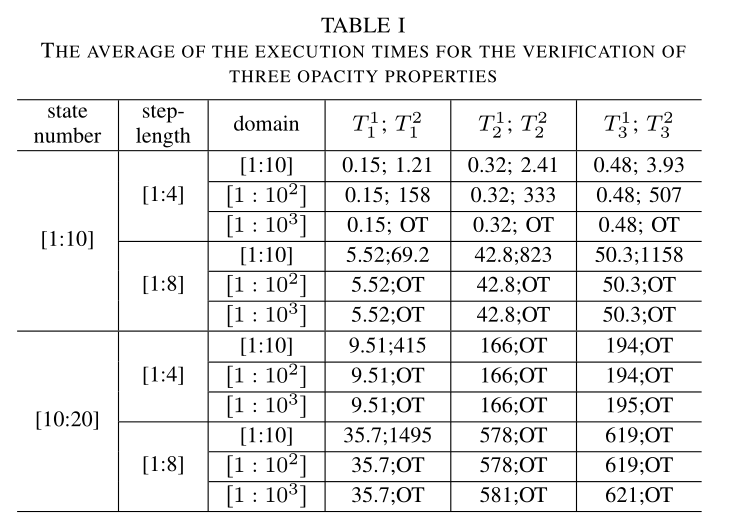
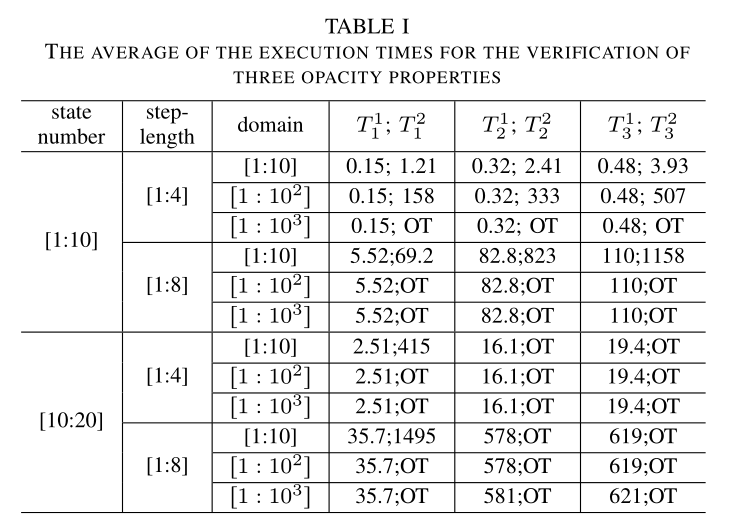
Add files via upload

Changed region(s): [[0.0301, 0.0304, 0.9644, 0.9715]]

diff --git a/EFA_Opacity.py b/EFA_Opacity.py
@@ -2,15 +2,15 @@ import time
 from itertools import chain, combinations
 from z3 import *
 
-#import EFA_model1
-#import EFA_model1_reverse
+import EFA_model1
+import EFA_model1_reverse
 
-###### test the model EFA_model1_4
-import EFA_model1_4
-import EFA_model1_4_reverse
-EFA_model1 = EFA_model1_4
-EFA_model1_reverse = EFA_model1_4_reverse
-###### test the model EFA_model1_4
+# ###### test the model EFA_model1_2
+# import EFA_model1_3
+# import EFA_model1_3_reverse
+# EFA_model1 = EFA_model1_3
+# EFA_model1_reverse = EFA_model1_3_reverse
+# ###### test the model EFA_model1_2
 
 
 start_time = time.time()

diff --git a/EFA_model1_3_reverse.py b/EFA_model1_3_reverse.py
@@ -239,7 +239,7 @@ def construct_Reverse_EFA():
     T.extend([T1, T2, T3, T4, T5, T6, T11, T21, T31, T41, T51, T61, T12, T22, T32, T42, T52, T62, T71, T72, T7])
 
 # initial state set, secret state set and non-secret state set for initial state opacity
-q_0  = set({"q0", "q1", "q2", "q3","q4", "q01", "q11", "q21", "q31","q41", "q02", "q12", "q22", "q32","q42"})
+q_0  = set({"q0", "q1", "q2", "q3","q4", "q01", "q11", "q21", "q31","q41", "q02", "q12", "q22"})
 Q_s_initial  = set({"q2"})
 Q_ns_initial = set({"q0","q1"})
 

diff --git a/EFA_model1_3.py b/EFA_model1_3.py
@@ -242,7 +242,7 @@ def construct_EFA():
 
 
 # initial state set
-q_0 = set({"q0","q01","q02"})
+q_0 = set({"q0","q01"})
 
 # secret state set and non-secret state set for current state opacity
 Q_s  = set({"q22","q41"})

diff --git a/README.md b/README.md
@@ -29,11 +29,10 @@ execution time of the program.
 By changing the "Max_Domain = 40" in the files of "FA_model1.py" and "FA_model1_reverse.py", one can set the finite
 domains of the event parameters.
 
-The average running time in my computer (Intel i7-9700 3.00GHz CPU and 24G RAM) is as follows.
+The total running time in my computer (Intel i7-9700 3.00GHz CPU and 24G RAM) is as follows.
 
-	Table 1 : THE AVERAGE OF THE EXECUTION TIMES FOR THE VERIFICATION OF THREE OPACITY PROPERTIES
-![total_time](https://github.com/user-attachments/assets/a24b087b-04b1-4243-bbcc-76a87c267278)
-
+	Table 1 : The total execution times for the verfication of opacity properties of EP-EFA and FA models in finite domains
+![totaltime_with_title](https://github.com/williamtengit/Opacity_EP-EFA_TAC_TN/assets/68321173/36c3a795-36dd-4cb1-8709-4e7f709b0ab2)
 
  	
 
@@ -41,9 +40,6 @@ From the table, it can be seen that the opacity verification complexity of EP-EF
 while for FA, opacity verification becomes almost infeasible when the data domain is large. 
 This suggests that the EP-EFA model is more suitable for characterizing data flow in the system compared to the FA model.
 
-Although current-state opacity and initial-state opacity have the same complexity, the actual state space of the reverse EP-EFA’s
-observer is usually much larger than that of the EP-EFA’s observer, because all states of the reverse EP-EFA are initial
-states; therefore, the average verification time for initial-state opacity is higher than that for current-state opacity.
 
 
 
